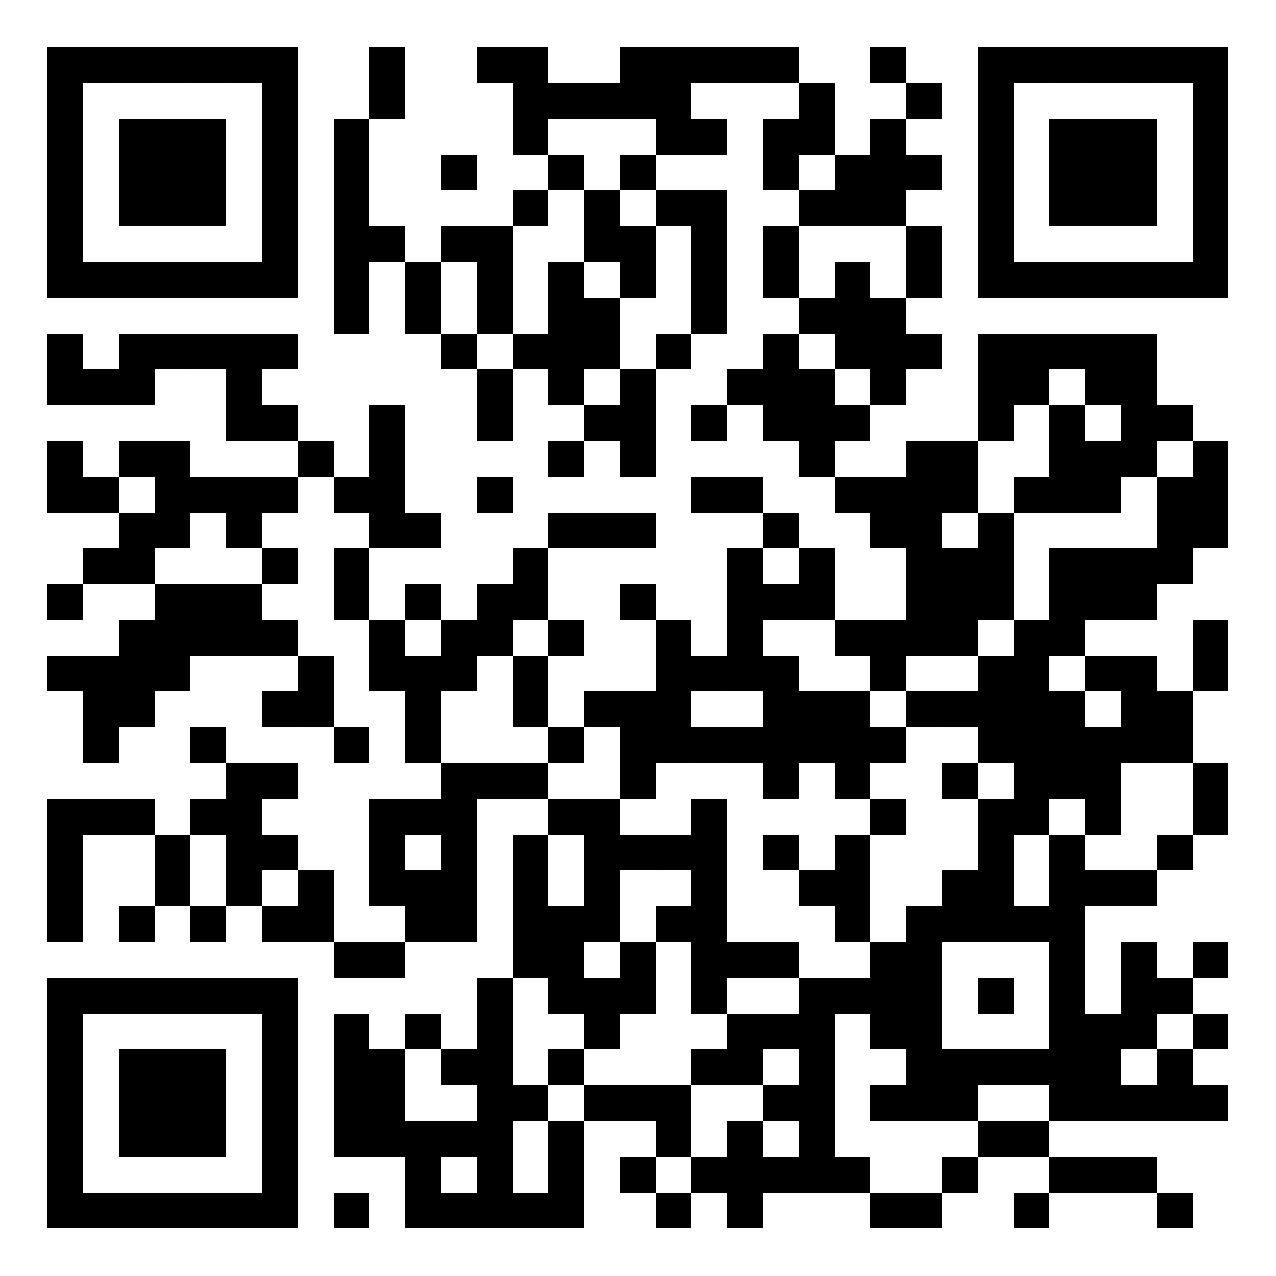
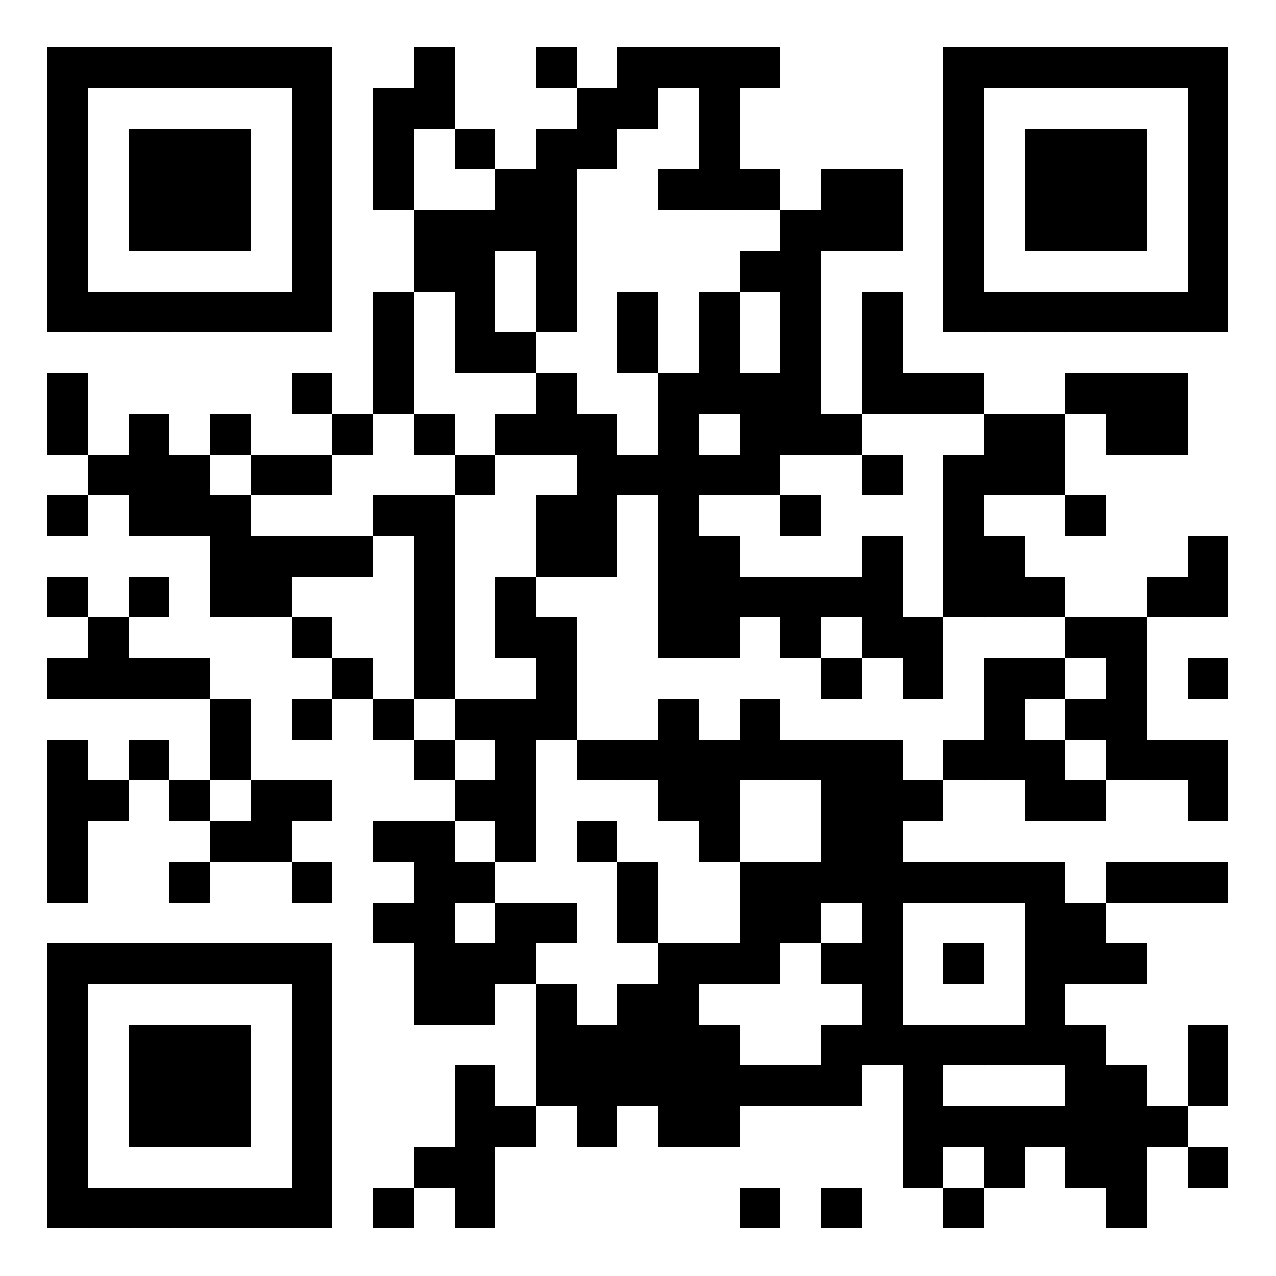
Add section dividers and update QR to report site

diff --git a/index.html b/index.html
@@ -43,9 +43,12 @@
 <main>
 
   <section class="section" id="abstract">
-    <div class="section-head">
-      <span class="section-index">01</span>
-      <h2>摘要</h2>
+    <div class="section-divider">
+      <span class="divider-index">01</span>
+      <div class="divider-text">
+        <h2>摘要</h2>
+        <p>报告概要</p>
+      </div>
     </div>
     <p class="lead">
       金属基复合材料兼具金属的塑韧性与增强相的高强度、高模量、低热膨胀等特性，在航空航天、汽车、电子、国防和体育等领域具有广阔应用前景。本报告概述金属基复合材料的制备工艺分类，重点介绍液相法制备技术及本课题组在真空吸渗、合金液定量浇注、间接挤压成形、预制体微结构设计和界面调控方面的研究实践。
@@ -64,9 +67,12 @@
   </section>
 
   <section class="section" id="overview">
-    <div class="section-head">
-      <span class="section-index">02</span>
-      <h2>概述与典型应用</h2>
+    <div class="section-divider">
+      <span class="divider-index">02</span>
+      <div class="divider-text">
+        <h2>概述与典型应用</h2>
+        <p>材料特征、典型应用与性能需求</p>
+      </div>
     </div>
     <p>
       金属基复合材料（MMC）由金属基体与纤维、颗粒或晶须等增强相复合而成，兼具金属的塑韧性和增强相的高强度、高模量、耐磨、低热膨胀等优点。寻找<strong>低成本、高效率、高性能</strong>的制备方法，是该领域共同追求的目标。
@@ -107,9 +113,12 @@
   </section>
 
   <section class="section" id="fabrication">
-    <div class="section-head">
-      <span class="section-index">03</span>
-      <h2>制备技术</h2>
+    <div class="section-divider">
+      <span class="divider-index">03</span>
+      <div class="divider-text">
+        <h2>制备技术</h2>
+        <p>搅拌铸造、快速混合、喷射共沉积与 MetPreg</p>
+      </div>
     </div>
 
     <h3>搅拌铸造法</h3>
@@ -168,9 +177,12 @@
   </section>
 
   <section class="section" id="infiltration">
-    <div class="section-head">
-      <span class="section-index">04</span>
-      <h2>液相浸渗工艺实践</h2>
+    <div class="section-divider">
+      <span class="divider-index">04</span>
+      <div class="divider-text">
+        <h2>液相浸渗工艺实践</h2>
+        <p>真空吸渗、定量浇注与间接挤压</p>
+      </div>
     </div>
     <p>
       液相浸渗是本课题组长期研究重点：通过真空、压力和温度控制，使金属液克服毛细阻力进入预制体，获得致密、界面结合良好的金属基复合材料。研究对象覆盖真空吸渗液固挤压、合金液定量浇注和间接挤压成形。
@@ -269,9 +281,12 @@
   </section>
 
   <section class="section" id="interface">
-    <div class="section-head">
-      <span class="section-index">05</span>
-      <h2>预制体与界面调控</h2>
+    <div class="section-divider">
+      <span class="divider-index">05</span>
+      <div class="divider-text">
+        <h2>预制体与界面调控</h2>
+        <p>研究脉络、CNT 接枝与界面设计</p>
+      </div>
     </div>
     <p>
       预制体微结构设计从“均匀分布”逐步走向“梯度分布、定制分布”，目标是根据构件受力与功能需求实现性能定制。课题组围绕短纤维、碳纳米管、多尺度和石墨烯等增强体系持续开展研究。
@@ -358,9 +373,12 @@
   </section>
 
   <section class="section" id="conclusion">
-    <div class="section-head">
-      <span class="section-index">06</span>
-      <h2>结论与成果</h2>
+    <div class="section-divider">
+      <span class="divider-index">06</span>
+      <div class="divider-text">
+        <h2>结论与成果</h2>
+        <p>间接挤压小结、获奖与总体展望</p>
+      </div>
     </div>
     <h3>间接挤压成形小结</h3>
     <ul class="clean">
@@ -398,9 +416,12 @@
   </section>
 
   <section class="section" id="references">
-    <div class="section-head">
-      <span class="section-index">07</span>
-      <h2>参考文献</h2>
+    <div class="section-divider">
+      <span class="divider-index">07</span>
+      <div class="divider-text">
+        <h2>参考文献</h2>
+        <p>30 分钟版引用文献</p>
+      </div>
     </div>
     <p class="muted">以下为 30 分钟版报告引用的文献（共 13 条），按作者字母顺序排列。完整引用格式与上下文见报告 PDF。</p>
     <ol class="refs-list">
@@ -422,24 +443,28 @@
   </section>
 
   <section class="section" id="contact">
-    <div class="section-head">
-      <span class="section-index">08</span>
-      <h2>联系与资料</h2>
+    <div class="section-divider">
+      <span class="divider-index">08</span>
+      <div class="divider-text">
+        <h2>联系与资料</h2>
+        <p>报告人、二维码与 PDF</p>
+      </div>
     </div>
     <p class="thanks">感谢大家聆听！</p>
     <div class="contact-grid">
       <div class="contact-card">
         <p><strong>周计明</strong>　西北工业大学</p>
         <p>邮箱：<a href="mailto:zhoujm@nwpu.edu.cn">zhoujm@nwpu.edu.cn</a></p>
+        <p>报告网页：<a href="https://kivinchoa.github.io/mmcLect/" target="_blank" rel="noopener">kivinchoa.github.io/mmcLect</a></p>
         <p>个人主页：<a href="https://kivinchoa.github.io/kivinInfo/index.html" target="_blank" rel="noopener">kivinchoa.github.io/kivinInfo</a></p>
         <p>本网页根据 2026 年 10 月 24 日报告整理。完整幻灯片与参考文献请下载报告 PDF。</p>
         <p><a class="btn" href="assets/Frontiermmc2026-30min.pdf" target="_blank" rel="noopener">下载报告 PDF</a></p>
       </div>
       <div class="qr">
-        <a href="https://kivinchoa.github.io/kivinInfo/index.html" target="_blank" rel="noopener">
-          <img src="assets/images/qr.png" alt="个人主页二维码" loading="lazy" decoding="async">
+        <a href="https://kivinchoa.github.io/mmcLect/" target="_blank" rel="noopener">
+          <img src="assets/images/qr.png" alt="报告网页二维码" loading="lazy" decoding="async">
         </a>
-        <p>扫码访问个人主页</p>
+        <p>扫码访问报告网页</p>
       </div>
     </div>
 

diff --git a/assets/css/style.css b/assets/css/style.css
@@ -214,9 +214,53 @@ main {
 
 .section h3 {
   margin: 30px 0 10px;
+  padding-left: 12px;
+  border-left: 4px solid var(--blue-3);
   color: var(--blue);
   font-size: 1.13rem;
   line-height: 1.45;
+}
+
+/* Section dividers */
+.section-divider {
+  display: flex;
+  align-items: center;
+  gap: 18px;
+  margin: 0 0 24px;
+  padding: 20px 24px;
+  border-radius: 13px;
+  background: linear-gradient(135deg, #14205a 0%, #283593 100%);
+  color: #fff;
+  box-shadow: 0 8px 20px rgba(26, 35, 126, .16);
+}
+
+.divider-index {
+  display: inline-flex;
+  align-items: center;
+  justify-content: center;
+  width: 48px;
+  height: 48px;
+  border-radius: 50%;
+  border: 1px solid rgba(255, 255, 255, .26);
+  background: rgba(255, 255, 255, .14);
+  color: #fff;
+  font-size: 1rem;
+  font-weight: 750;
+  flex: 0 0 auto;
+}
+
+.divider-text h2 {
+  margin: 0;
+  color: #fff;
+  font-size: clamp(1.3rem, 2.4vw, 1.7rem);
+  line-height: 1.35;
+}
+
+.divider-text p {
+  margin: 4px 0 0;
+  color: #dbe4ff;
+  font-size: .88rem;
+  line-height: 1.5;
 }
 
 .section h3:first-of-type { margin-top: 20px; }
@@ -555,6 +599,8 @@ footer {
   .contact-grid { grid-template-columns: 1fr; }
   .awards-grid { grid-template-columns: 1fr; }
   .awards-grid img { height: auto; max-height: 520px; }
+  .section-divider { padding: 16px 18px; gap: 12px; }
+  .divider-index { width: 40px; height: 40px; font-size: .9rem; }
   .qr { text-align: left; }
 }
 

diff --git a/README.md b/README.md
@@ -53,7 +53,7 @@ https://<用户名>.github.io/<仓库名>/
 
 - 论文插图从 `Frontiermmc2026/Zhou2025PartA.pdf` 按页码和 trim 视窗裁剪，300 dpi 渲染后压缩为 PNG。
 - 其他插图由 `Frontiermmc2026/figures/` 中的 JPG/PNG 统一转为 PNG。
-- 二维码由 LaTeX `qrcode` 宏包生成，指向个人主页。
+- 二维码由 LaTeX `qrcode` 宏包生成，指向报告网页。
 - 页面不依赖外部字体或 JS，可直接静态托管。
 
 ## 说明
